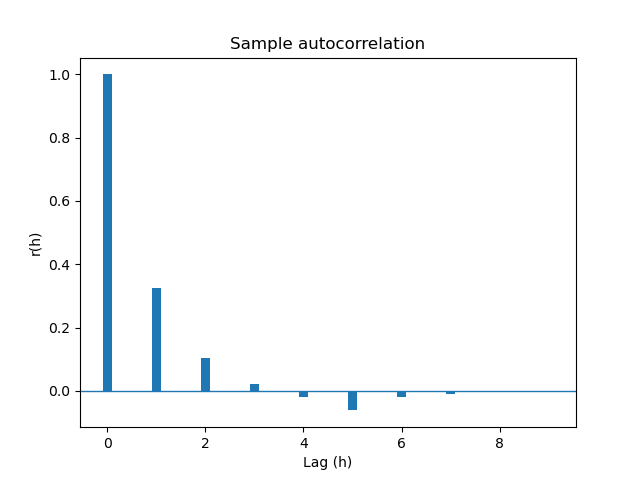
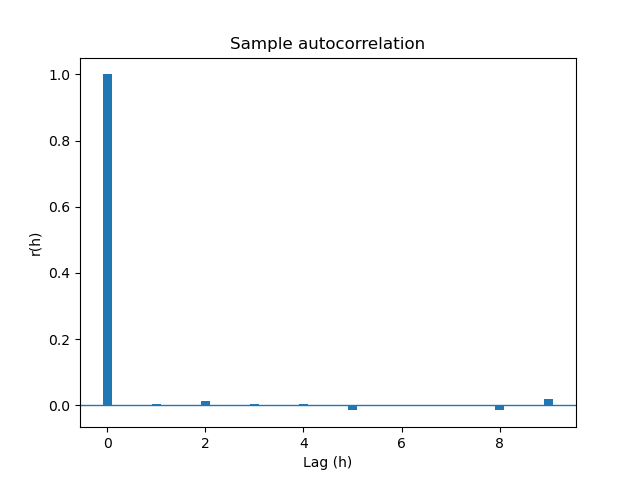
touch up 1-2 final

diff --git a/D1/D1-1.py b/D1/D1-1.py
@@ -2,6 +2,9 @@ import matplotlib.pyplot as plt
 import numpy as np
 from scipy.stats import chi2
 import pandas as pd
+import math as math
+from scipy.stats import kstest, chi2
+
 #THe LCG
 def LCG(X0, m, a, c, N):
     X = np.zeros(N)
@@ -43,7 +46,7 @@ p_chi2 = 1 - chi2.cdf(chi2_stat, dof)
 print(f'p-value for the Chisq test:{p_chi2}')
 
 median = 0.5
-signs = np.where(u >= median, 1, 0)
+signs = np.where(X >= median, 1, 0)
 runs = 1 + np.sum(signs[:-1] != signs[1:])
 n1, n0 = signs.sum(), N - signs.sum()
 expected_runs = 1 + 2 * n1 * n0 / N
@@ -63,3 +66,50 @@ plt.xlabel("Lag (h)")
 plt.ylabel("r(h)")
 plt.savefig('Figures/Autocorrelation.png')
 plt.show()
+
+
+import math
+from scipy.stats import kstest, chi2
+
+# --- Modified LCG function to generate batches ---
+def test_lcg_batches(X0, m, a, c, N, num_batches=20):
+    results = []
+    for _ in range(num_batches):
+        X0 = np.random.randint(1,m)
+        X = LCG(X0, m, a, c, N)
+        u = X / m
+        # Chi-squared test
+        k = 10
+        observed, _ = np.histogram(u, bins=k)
+        expected = np.full(k, N / k)
+        chi2_stat = ((observed - expected) ** 2 / expected).sum()
+        p_chi2 = 1 - chi2.cdf(chi2_stat, k-1)
+        
+        # Kolmogorov-Smirnov test
+        ks_stat, p_ks = kstest(u, 'uniform')
+        
+        
+        results.append({
+            "Batch": _ + 1,
+            "χ² Statistic": chi2_stat,
+            "χ² p-value": p_chi2,
+            "KS Statistic": ks_stat,
+            "KS p-value": p_ks,
+        })
+    
+    return pd.DataFrame(results)
+
+# --- Run tests on 20 batches ---
+batch_results = test_lcg_batches(105, m, a, c, N, num_batches=20)
+
+# --- Check consistency of results ---
+chi2_passes = np.sum(batch_results["χ² p-value"] > 0.05)  # Count passes (p > 0.05)
+ks_passes = np.sum(batch_results["KS p-value"] > 0.05)    # Count passes (p > 0.05)
+
+print(f"χ² test passed {chi2_passes}/20 times ({chi2_passes/20*100:.1f}%)")
+print(f"KS test passed {ks_passes}/20 times ({ks_passes/20*100:.1f}%)")
+
+# --- Display full results ---
+print("\nDetailed batch results:")
+print(batch_results)
+

diff --git a/D1/D1-2.py b/D1/D1-2.py
@@ -42,8 +42,9 @@ def autocorr(x, h=1):
     x = x - x.mean()
     return np.dot(x[:-h], x[h:]) / np.dot(x, x)
 
-lags = [1, 2, 3, 5, 10]
-r = [autocorr(u, h) for h in lags]
+s = pd.Series(u)
+lags = range(0,50)
+r = [s.autocorr(lag=lag) for lag in lags]
 
 # ----------------- 6. Plots ------------------------------------------------------
 # Histogram
@@ -52,6 +53,7 @@ plt.hist(u, bins=k, edgecolor='black')
 plt.title("Histogram of 10 000 values – system RNG")
 plt.xlabel("Value")
 plt.ylabel("Frequency")
+plt.savefig('Hist-1-2.png')
 
 # Successive-pair scatter plot
 plt.figure()
@@ -59,14 +61,17 @@ plt.scatter(u[:-1], u[1:], s=4)
 plt.title("Successive pairs (u_n , u_{n+1}) – system RNG")
 plt.xlabel("u_n")
 plt.ylabel("u_{n+1}")
+plt.savefig('succpairs-1-2.png')
+
 
 # Autocorrelation bar plot
 plt.figure()
-plt.bar(lags, r, width=0.8)
+plt.bar(lags, r, width=0.4)
 plt.axhline(0, linewidth=1)
 plt.title("Autocorrelations – system RNG")
 plt.xlabel("Lag (h)")
 plt.ylabel("r(h)")
+plt.savefig('Autocorr-1-2.png')
 
 plt.show()
 
